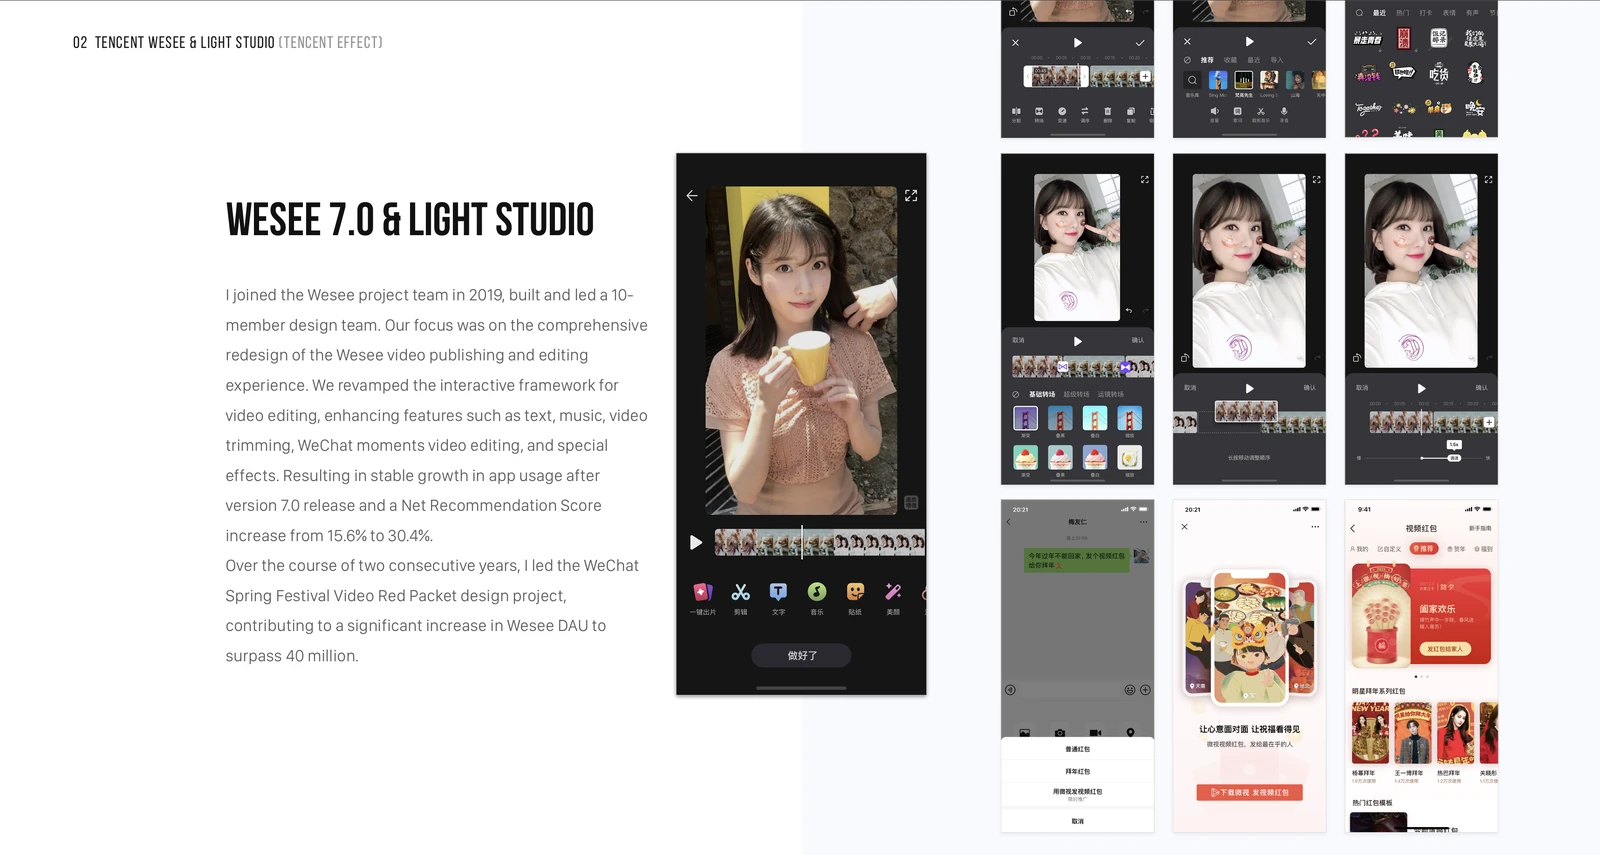
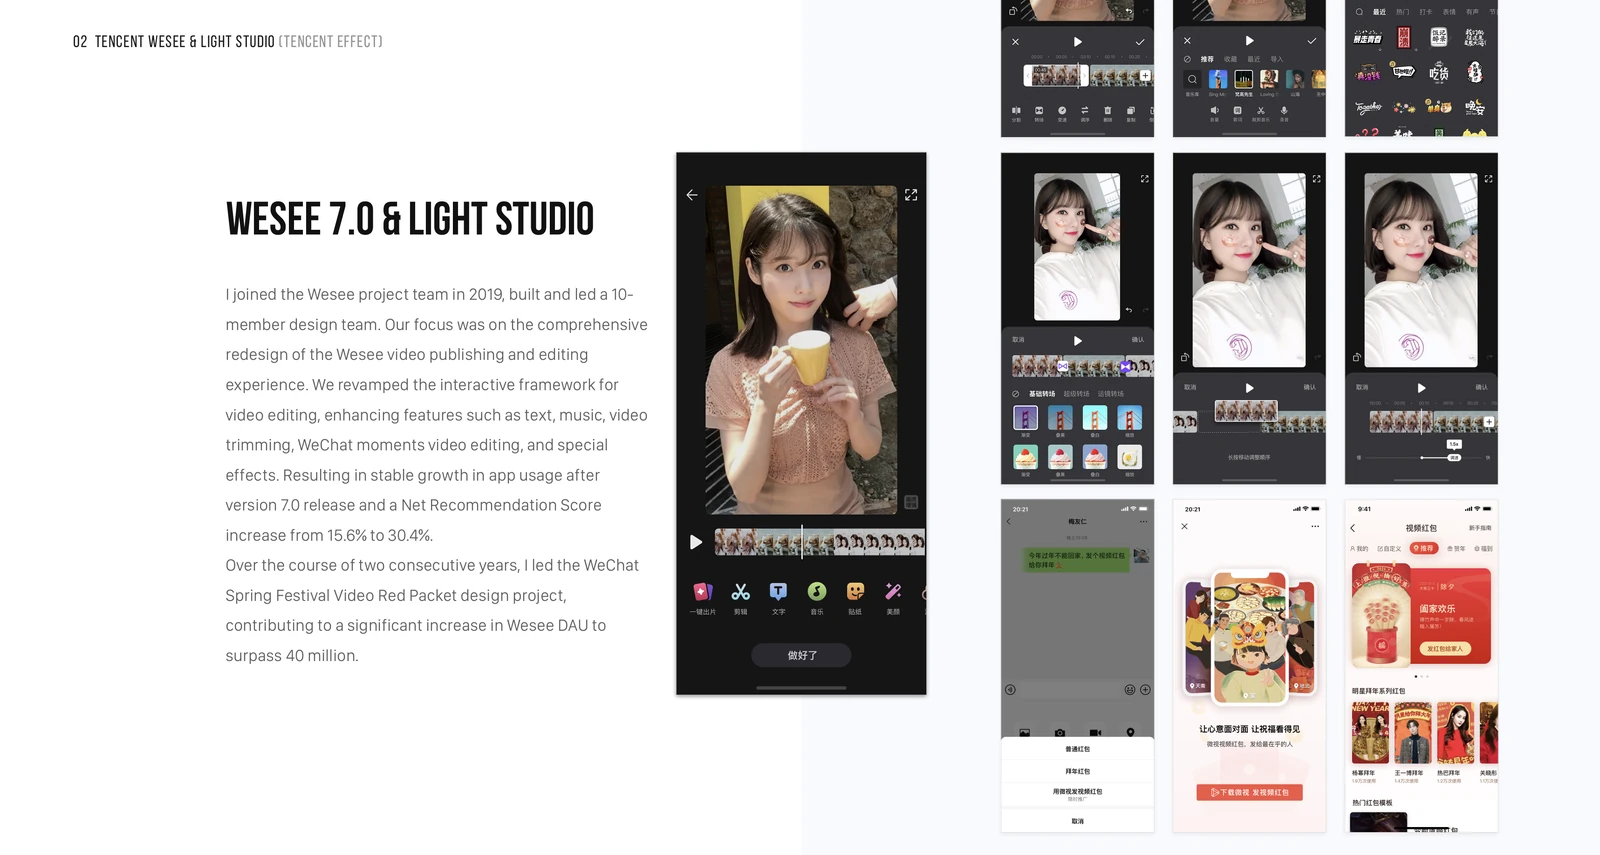
Crop top edge from Wesee overview image

diff --git a/work/weishi-7.html b/work/weishi-7.html
@@ -94,10 +94,10 @@
 
     <figure class="wesee-overview" id="design-overview">
       <picture>
-        <source type="image/webp" srcset="/assets/wesee-7-overview-1600.webp 1600w, /assets/wesee-7-overview-2400.webp 2400w, /assets/wesee-7-overview-3200.webp 3200w" sizes="(max-width: 600px) calc(100vw - 40px), (max-width: 1100px) calc(100vw - 64px), (max-width: 1264px) calc(100vw - 96px), 1168px">
-        <img src="/assets/wesee-7-overview.png" width="3434" height="1836" decoding="async" alt="Wesee 7.0 design overview showing video editing, music, text and effects tools, and WeChat video red-packet screens.">
+        <source type="image/webp" srcset="/assets/wesee-7-overview-1600.webp?v=crop-top2-20261016 1600w, /assets/wesee-7-overview-2400.webp?v=crop-top2-20261016 2400w, /assets/wesee-7-overview-3200.webp?v=crop-top2-20261016 3200w" sizes="(max-width: 600px) calc(100vw - 40px), (max-width: 1100px) calc(100vw - 64px), (max-width: 1264px) calc(100vw - 96px), 1168px">
+        <img src="/assets/wesee-7-overview.png?v=crop-top2-20261016" width="3434" height="1834" decoding="async" alt="Wesee 7.0 design overview showing video editing, music, text and effects tools, and WeChat video red-packet screens.">
       </picture>
-      <a class="case-image-link" href="/assets/wesee-7-overview.png" target="_blank" rel="noopener noreferrer">View full-size design image <span class="sr-only">(opens in a new tab)</span></a>
+      <a class="case-image-link" href="/assets/wesee-7-overview.png?v=crop-top2-20261016" target="_blank" rel="noopener noreferrer">View full-size design image <span class="sr-only">(opens in a new tab)</span></a>
     </figure>
 
     <div class="case-story">
